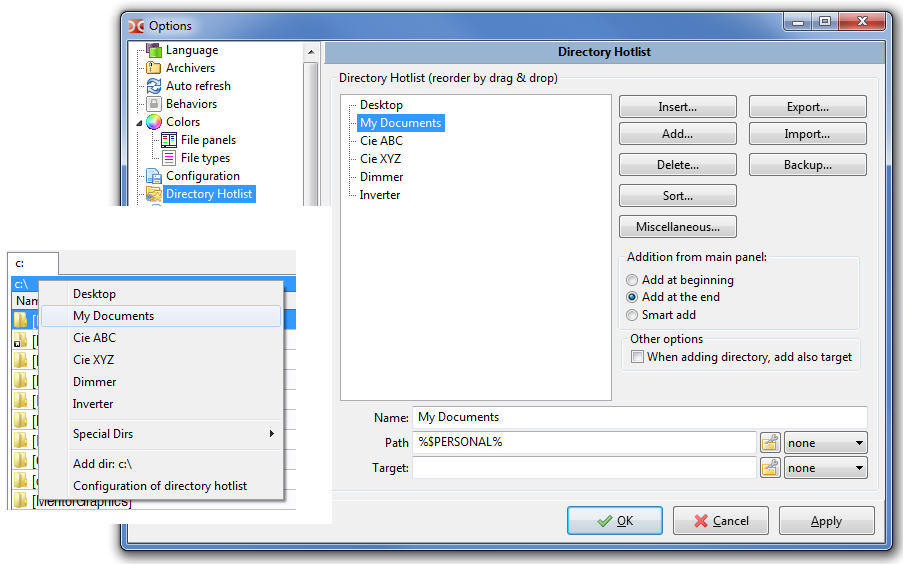
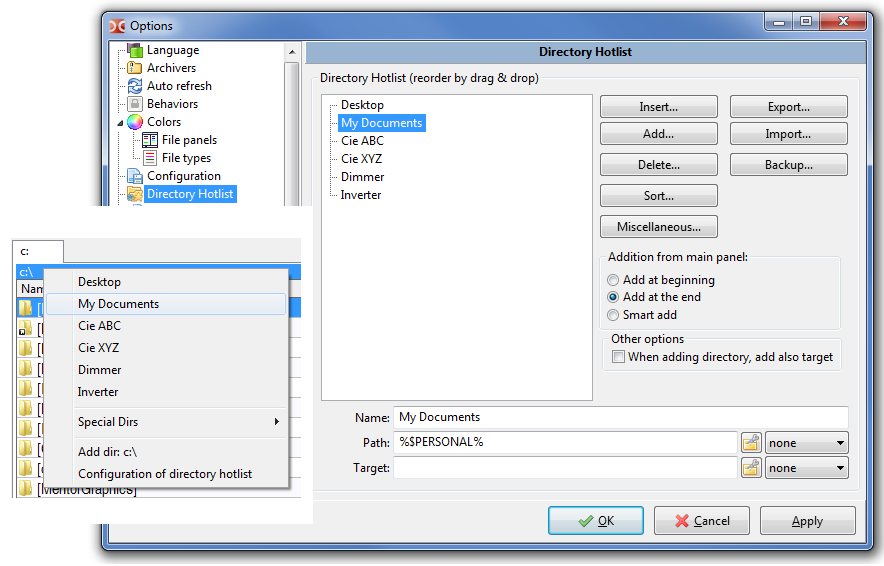
CHG: In "Directory Hotlist" help page, update three images where the column for the "path" was not displayed. CHG: Still in "Directory Hotlist" help page, update two images where the ending path delimiter was displayed when now it is not anymore.

diff --git a/doc/en/directoryhotlist.html b/doc/en/directoryhotlist.html
@@ -124,7 +124,7 @@
         <p>From the menu bar you may select "<B>Configuration</b>" and then "<B>Directory Hotlist</b>"</p>
         <p>The tree you see there will show the same thing as what you will see in your popup Directory Hotlist from the main panel.</p>
         <p>But instead of seeing it on the form of a popup menu, you see it as a tree with many functions to edit, move, etc. as you can see in this help document.</p>
-        <p class="figure"><img class="largeimage" title="Configuration" alt="Configuration" src="images/imgDC/dirhot_configure.png" width="884" height="554"></p>
+        <p class="figure"><img class="largeimage" title="Configuration" alt="Configuration" src="images/imgDC/dirhot_configure.png" width="884" height="566"></p>
         <p class="navback"><a href="#topofpage">(back to top)</a></p>
       </div>
 
